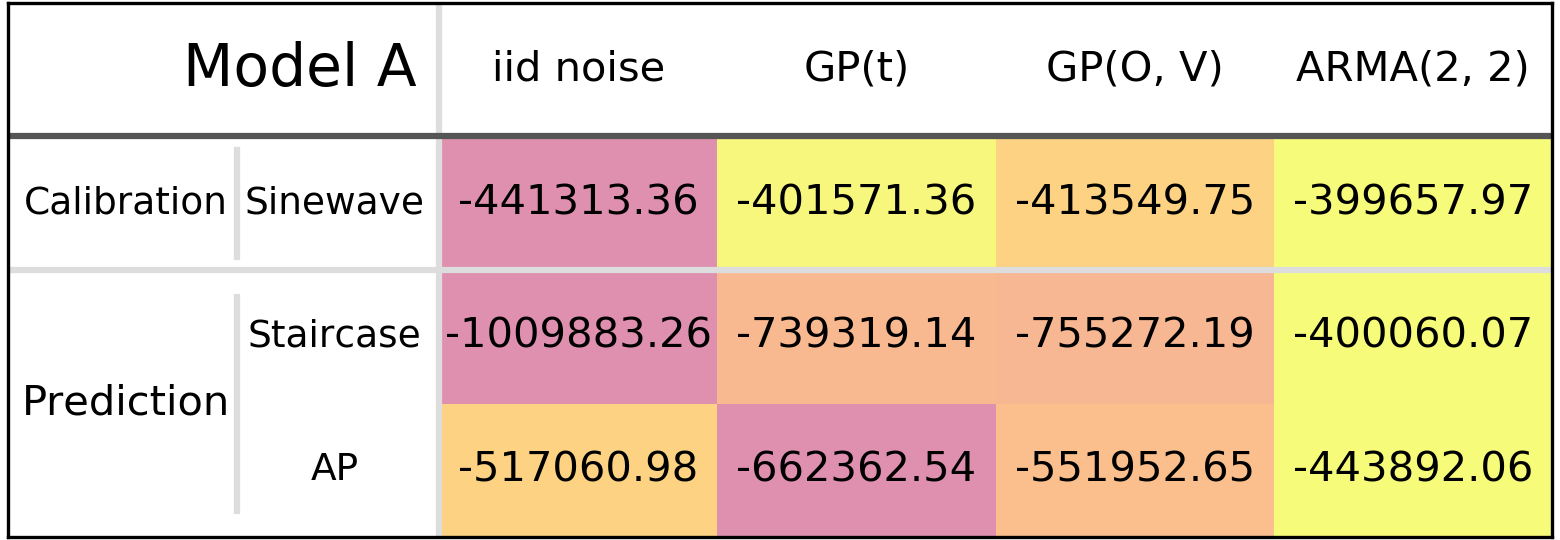
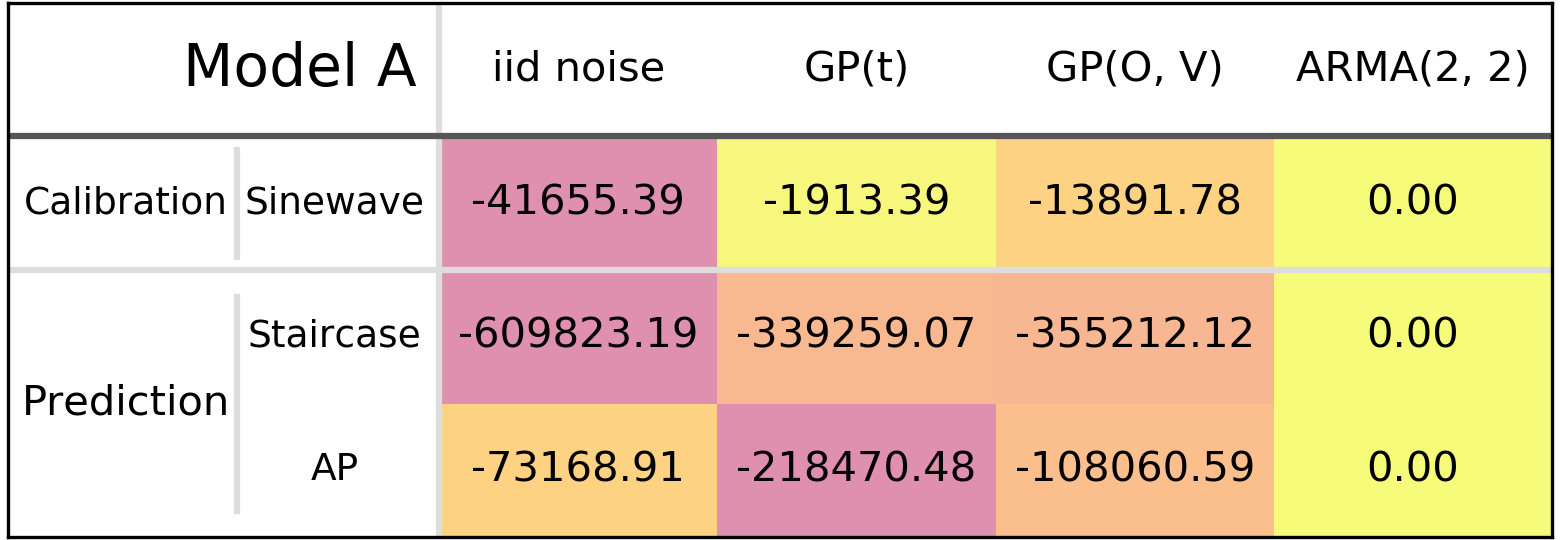
Calculate relative log-likelihood

diff --git a/ion-channel-models/compare-evidence.py b/ion-channel-models/compare-evidence.py
@@ -60,6 +60,8 @@ targs = {
 }
 
 def row(axes, y, data, std=None):
+    data = np.copy(data)
+    data = data - np.max(data)
     colour = np.array(data) - np.min(data)
     colour /= 2. * np.max(colour)
     colour = np.abs(0.5 - colour)
